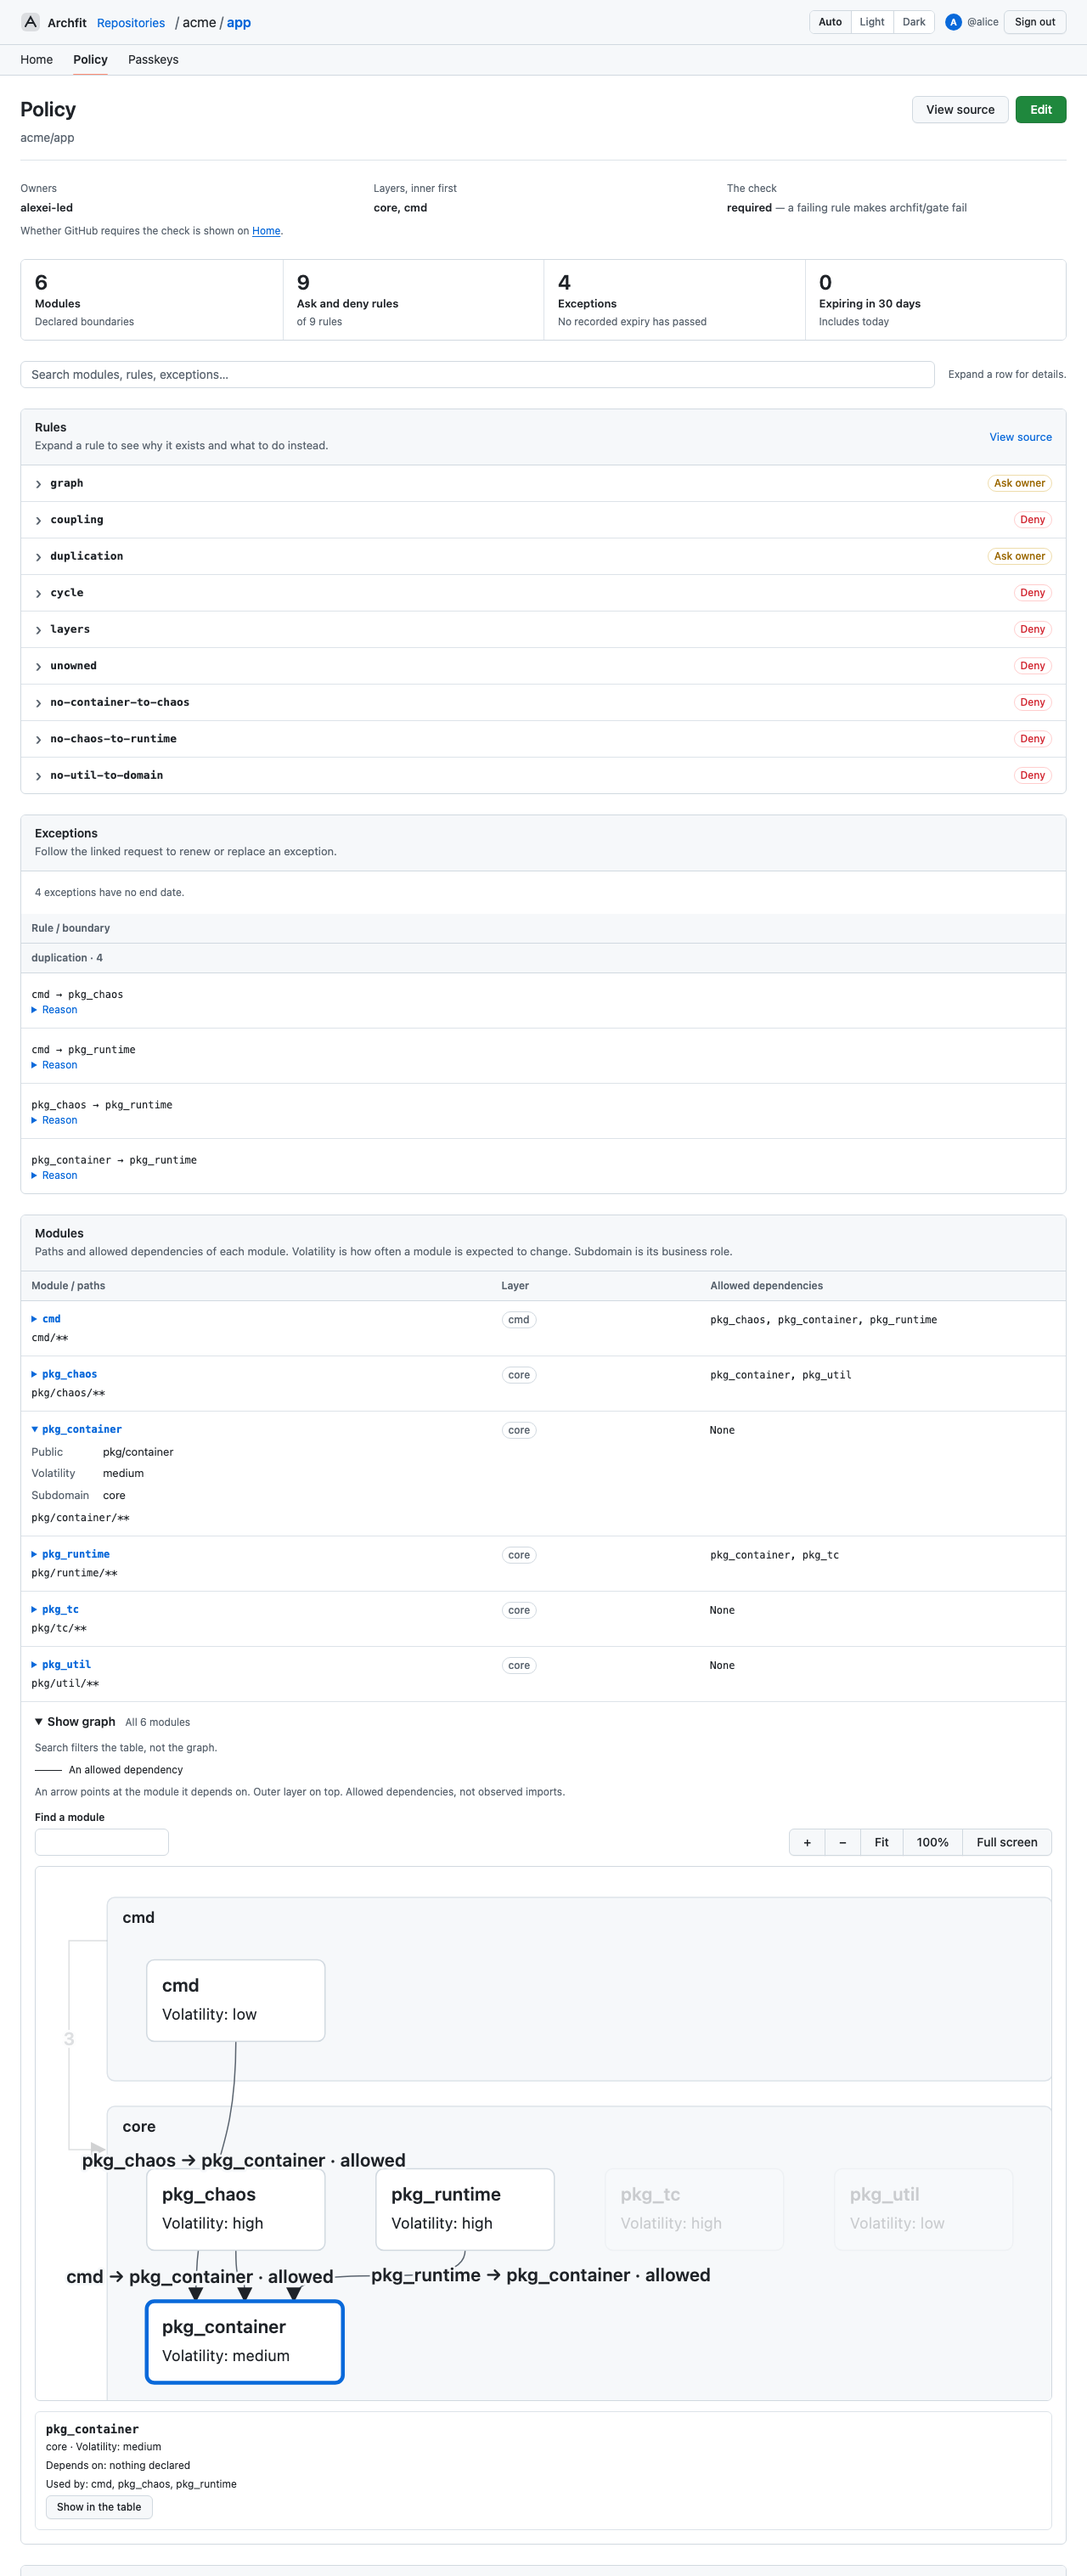
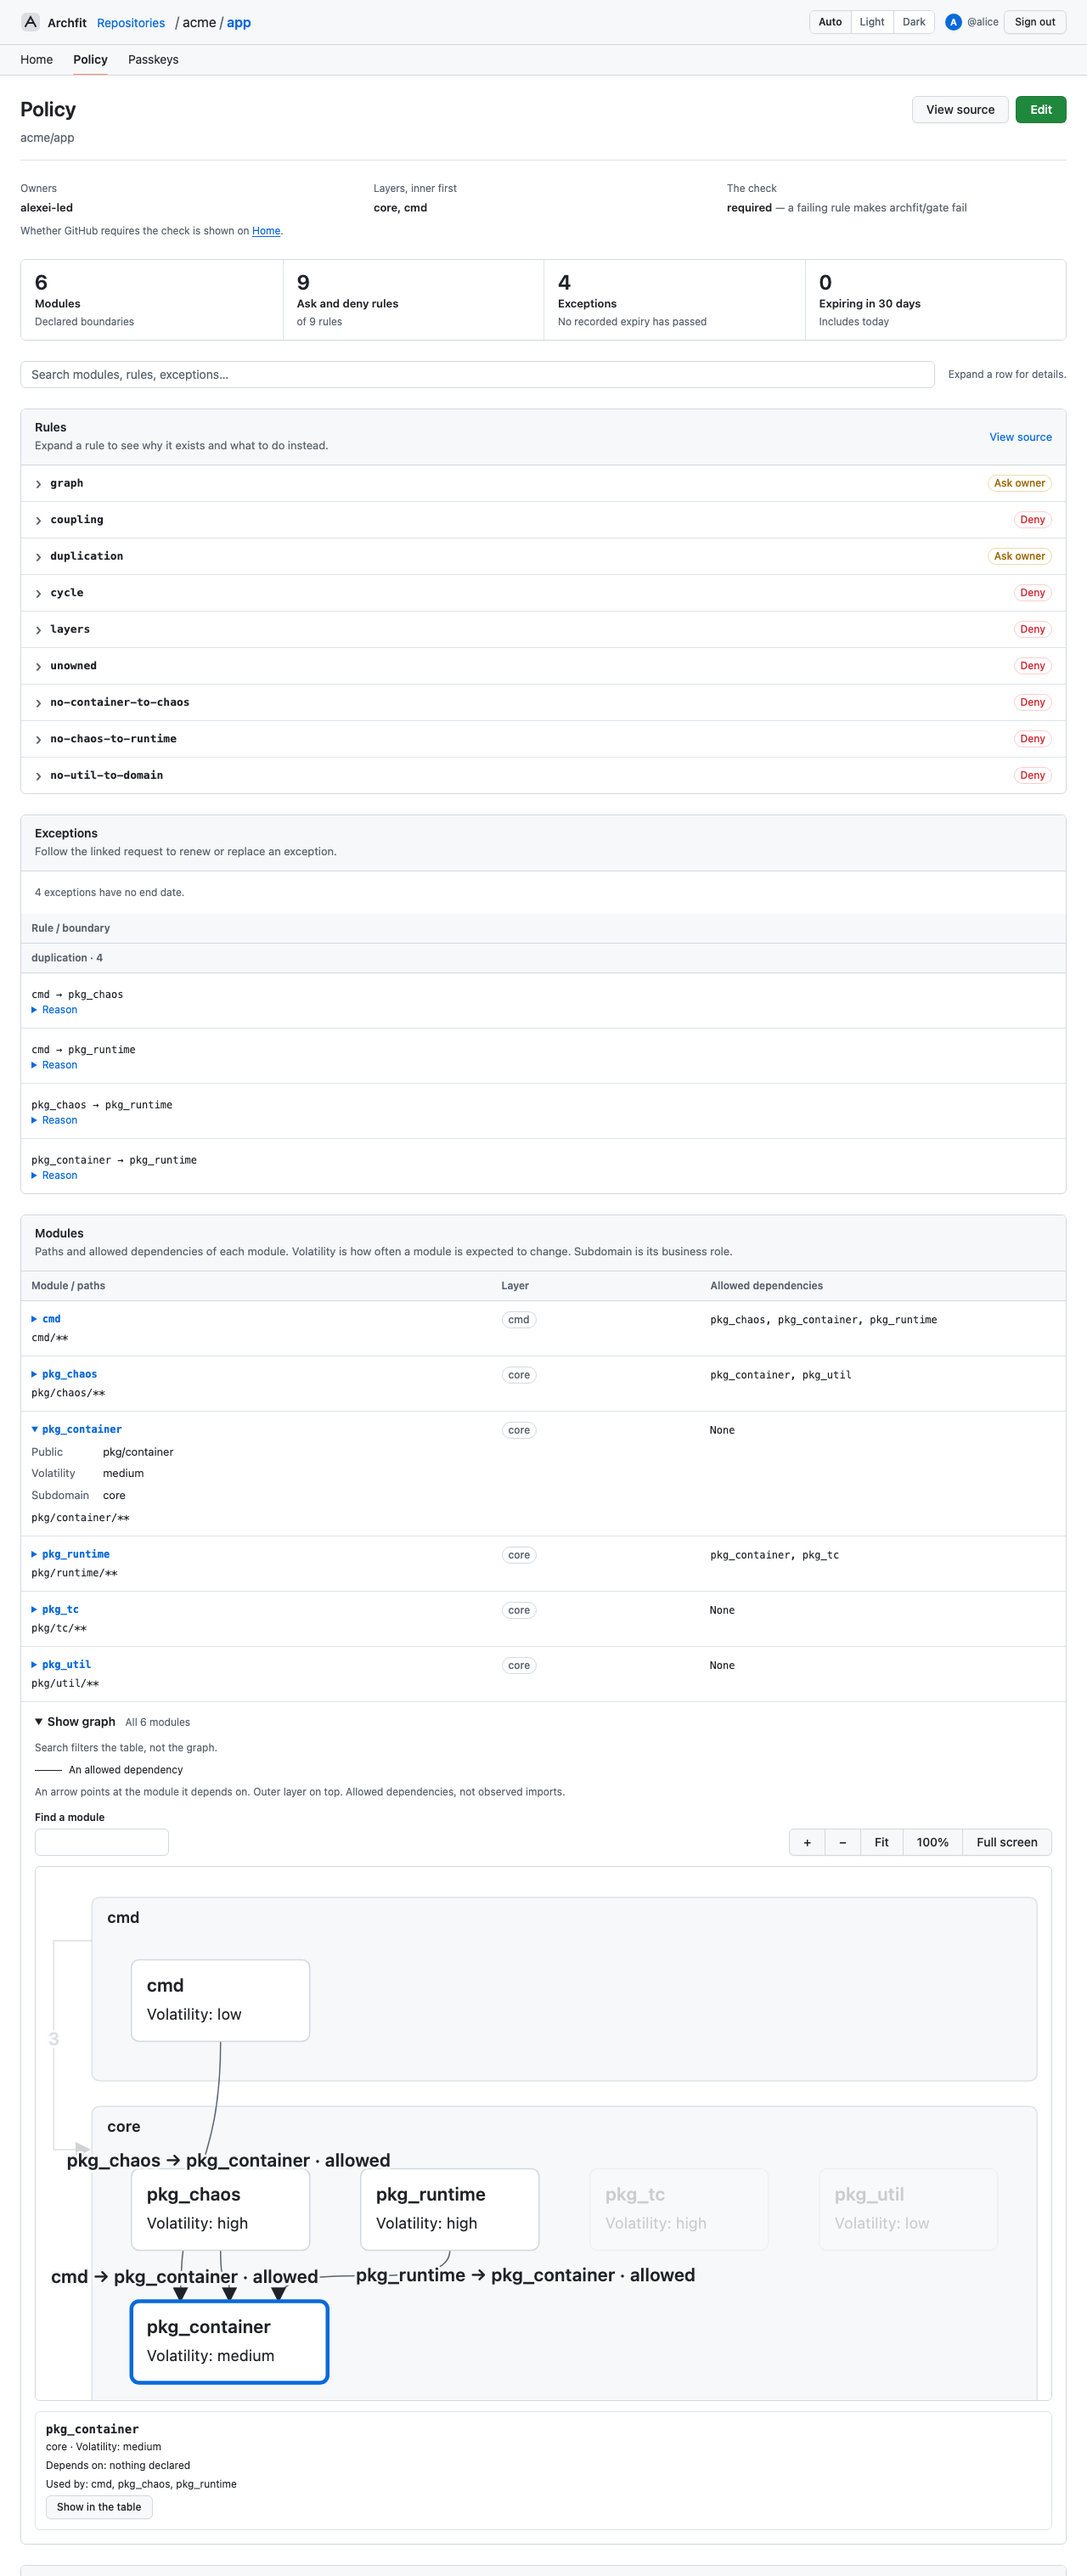
fix(web): keep self-dependency loops inside the fitted graph
Review found two issues in the viewport change: the fitView comment still said fit never passes 100%, and fit to width left no room for a self-dependency loop at the rightmost module, so Fit clipped it. Fit now reserves 40 px past the rightmost node, and the comment names FIT_MAX.

diff --git a/web/src/components/map/Diagram.svelte b/web/src/components/map/Diagram.svelte
@@ -33,8 +33,9 @@
 
   const vp = $derived({ w: width, h: height });
   // Fit uses the drawn extent, not the band width: bands are laid out one row wide, so a small graph would otherwise fit as a mostly empty row.
+  // A self-dependency loop bulges about 38 px past its node (routes.ts), so the fit keeps 40 px clear of the rightmost node.
   const world = $derived(
-    placed ? { w: Math.max(placed.left, ...placed.nodes.map((n) => n.x + n.width)) + 16, h: placed.height } : { w: 0, h: 0 },
+    placed ? { w: Math.max(placed.left, ...placed.nodes.map((n) => n.x + n.width)) + 40, h: placed.height } : { w: 0, h: 0 },
   );
   // The viewport is as tall as the chart at fit-to-width scale, within 240 px and the spec's 70vh / 720 px bound. Only the width feeds the scale, so this does not loop.
   const contentH = $derived(Math.ceil(world.h * fitView(world, { w: width, h: 0 }).k));

diff --git a/web/src/components/map/viewport.ts b/web/src/components/map/viewport.ts
@@ -36,7 +36,7 @@ export function clampView(view: View, world: Size, vp: Size): View {
   };
 }
 
-// Fit to width, but never below the label floor and never magnified past 100%. When the floor wins, the chart starts
+// Fit to width, but never below the label floor and never magnified past FIT_MAX. When the floor wins, the chart starts
 // at the top-left and the reader pans.
 export function fitView(world: Size, vp: Size): View {
   const k = Math.min(FIT_MAX, Math.max(FLOOR, vp.w / world.w));
